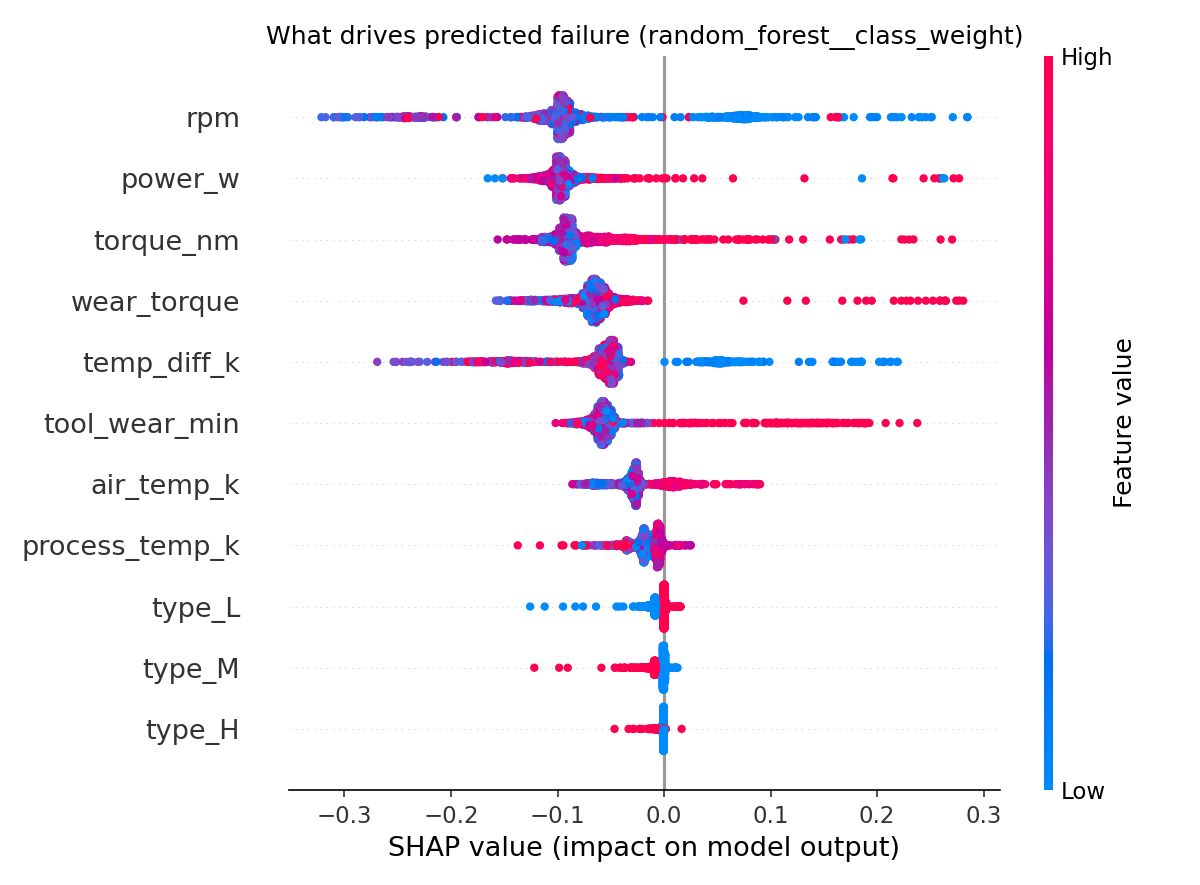
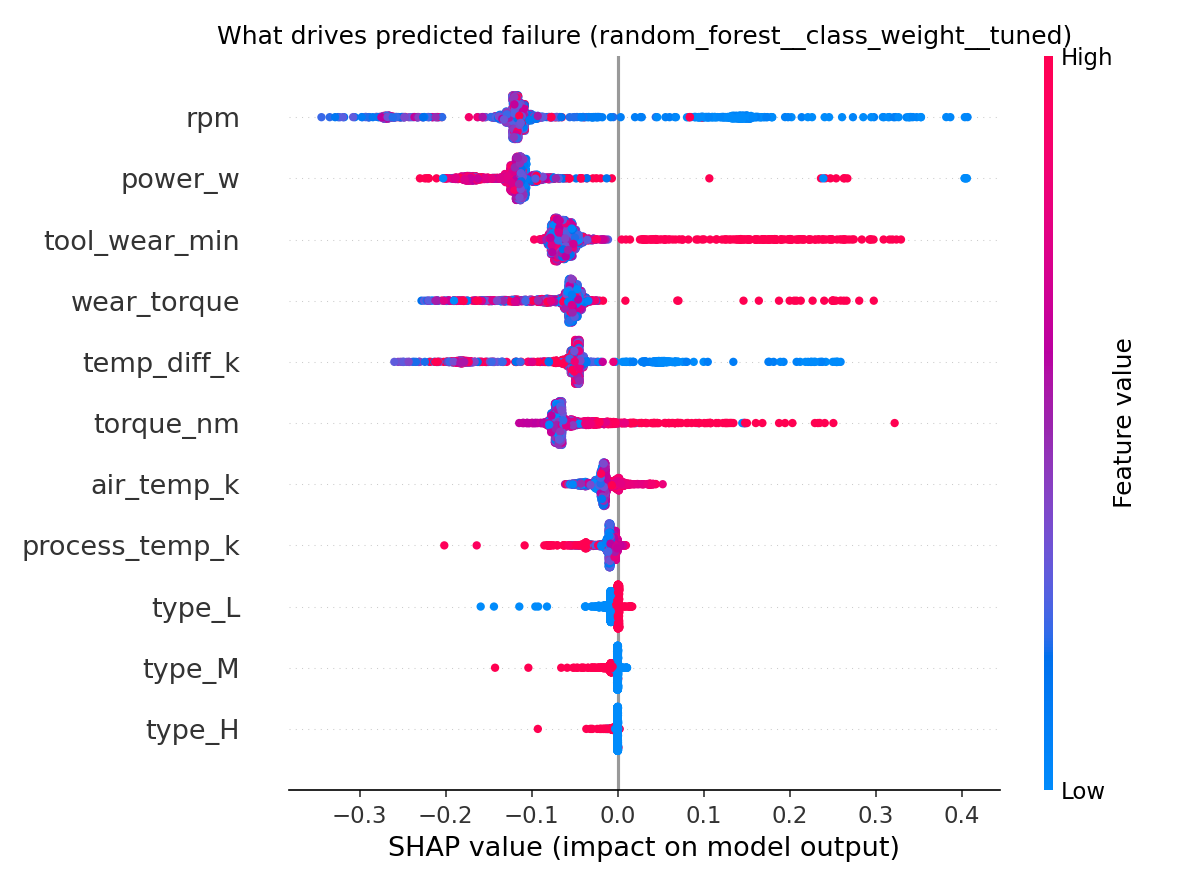
Explain each prediction, tune RF/XGBoost, slim the API image
- /predict returns the top SHAP drivers; explainer built once at startup
- Randomized search (PR-AUC) for Random Forest and XGBoost; tuned RF is
  now the registered model (CV PR-AUC 0.890 -> 0.900, test cost 116 -> 111)
- API image uses xgboost-cpu and no matplotlib (packages 1.3 GB -> 618 MB)
- README: CI badge, updated results, API example with drivers

diff --git a/src/train.py b/src/train.py
@@ -1,7 +1,8 @@
 """Train and compare models, log every run to MLflow, register the best one.
 
 Candidates: {Logistic Regression, Random Forest, XGBoost} x {class weights, SMOTE}.
-Selection and threshold tuning use 5-fold out-of-fold predictions on the
+Random Forest and XGBoost (class weights) also get a randomized hyperparameter
+search. Selection and threshold tuning use 5-fold out-of-fold predictions on the
 training set only; the test set is touched once, for the final report.
 """
 import json
@@ -15,7 +16,12 @@ from imblearn.over_sampling import SMOTE
 from imblearn.pipeline import Pipeline
 from sklearn.ensemble import RandomForestClassifier
 from sklearn.linear_model import LogisticRegression
-from sklearn.model_selection import StratifiedKFold, cross_val_predict, train_test_split
+from sklearn.model_selection import (
+    RandomizedSearchCV,
+    StratifiedKFold,
+    cross_val_predict,
+    train_test_split,
+)
 from sklearn.preprocessing import StandardScaler
 from xgboost import XGBClassifier
 
@@ -81,6 +87,43 @@ def make_model(name: str, strategy: str, pos_weight: float):
     return Pipeline(steps)
 
 
+SEARCH_SPACES = {
+    "random_forest": {
+        "clf__n_estimators": [200, 400, 600],
+        "clf__max_depth": [None, 8, 12, 20],
+        "clf__min_samples_leaf": [1, 2, 4, 8],
+        "clf__max_features": ["sqrt", 0.5, 0.8],
+    },
+    "xgboost": {
+        "clf__n_estimators": [200, 400, 800],
+        "clf__max_depth": [3, 4, 5, 6, 8],
+        "clf__learning_rate": [0.02, 0.05, 0.1],
+        "clf__subsample": [0.7, 0.85, 1.0],
+        "clf__colsample_bytree": [0.6, 0.8, 1.0],
+        "clf__min_child_weight": [1, 3, 5],
+    },
+}
+SEARCH_ITER = 20
+
+
+def tune(name: str, X, y, pos_weight: float) -> dict:
+    """Randomized search on PR-AUC. Uses its own fold split (different seed) so
+    the search and the out-of-fold evaluation don't share folds; nested CV would
+    remove the remaining optimism and is noted as a limitation."""
+    search = RandomizedSearchCV(
+        make_model(name, "class_weight", pos_weight),
+        SEARCH_SPACES[name],
+        n_iter=SEARCH_ITER,
+        scoring="average_precision",
+        cv=StratifiedKFold(n_splits=5, shuffle=True, random_state=RANDOM_STATE + 1),
+        random_state=RANDOM_STATE,
+        n_jobs=1,  # the estimators already parallelise
+    )
+    search.fit(X, y)
+    print(f"  best search PR-AUC {search.best_score_:.3f}: {search.best_params_}")
+    return search.best_params_
+
+
 def main() -> None:
     df = validate(load_raw())
     train_df, test_df = split(df)
@@ -96,40 +139,45 @@ def main() -> None:
     mlflow.set_tracking_uri(f"sqlite:///{ROOT / 'mlflow.db'}")
     mlflow.set_experiment(MLFLOW_EXPERIMENT)
 
+    candidates = [(f"{n}__{st}", n, st, {})
+                  for n in ["logreg", "random_forest", "xgboost"]
+                  for st in ["class_weight", "smote"]]
+    for name in SEARCH_SPACES:
+        print(f"Tuning {name}")
+        candidates.append((f"{name}__class_weight__tuned", name, "class_weight",
+                           tune(name, X_train, y_train, pos_weight)))
+
     rows, fitted = [], {}
-    for name in ["logreg", "random_forest", "xgboost"]:
-        for strategy in ["class_weight", "smote"]:
-            run_name = f"{name}__{strategy}"
-            print(f"Training {run_name}")
-            with mlflow.start_run(run_name=run_name) as run:
-                model = make_model(name, strategy, pos_weight)
-                oof = cross_val_predict(
-                    model, X_train, y_train, cv=cv, method="predict_proba"
-                )[:, 1]
-                threshold = best_threshold(y_train, oof)
-                cv_metrics = classification_metrics(y_train, oof, threshold)
+    for run_name, name, strategy, params in candidates:
+        print(f"Training {run_name}")
+        with mlflow.start_run(run_name=run_name) as run:
+            model = make_model(name, strategy, pos_weight).set_params(**params)
+            oof = cross_val_predict(
+                model, X_train, y_train, cv=cv, method="predict_proba"
+            )[:, 1]
+            threshold = best_threshold(y_train, oof)
+            cv_metrics = classification_metrics(y_train, oof, threshold)
 
-                model.fit(X_train, y_train)
-                test_proba = model.predict_proba(X_test)[:, 1]
-                test_metrics = classification_metrics(y_test, test_proba, threshold)
+            model.fit(X_train, y_train)
+            test_proba = model.predict_proba(X_test)[:, 1]
+            test_metrics = classification_metrics(y_test, test_proba, threshold)
 
-                mlflow.log_params(
-                    {"model": name, "imbalance": strategy, "threshold": threshold}
-                )
-                mlflow.log_params(
-                    {f"clf__{k}": v for k, v in model.named_steps["clf"].get_params().items()
-                     if isinstance(v, (int, float, str, bool)) or v is None}
-                )
-                mlflow.log_metrics({f"cv_{k}": v for k, v in cv_metrics.items()})
-                mlflow.log_metrics({f"test_{k}": v for k, v in test_metrics.items()})
-                info = mlflow.sklearn.log_model(model, name="model",
-                                                input_example=X_train.head(3),
-                                                serialization_format="cloudpickle")
+            mlflow.log_params({"model": name, "imbalance": strategy,
+                               "tuned": bool(params), "threshold": threshold})
+            mlflow.log_params(
+                {f"clf__{k}": v for k, v in model.named_steps["clf"].get_params().items()
+                 if isinstance(v, (int, float, str, bool)) or v is None}
+            )
+            mlflow.log_metrics({f"cv_{k}": v for k, v in cv_metrics.items()})
+            mlflow.log_metrics({f"test_{k}": v for k, v in test_metrics.items()})
+            info = mlflow.sklearn.log_model(model, name="model",
+                                            input_example=X_train.head(3),
+                                            serialization_format="cloudpickle")
 
-                fitted[run_name] = (model, threshold, run.info.run_id, info.model_uri)
-                rows.append({"run": run_name, "threshold": threshold,
-                             **{f"cv_{k}": cv_metrics[k] for k in ["pr_auc", "recall", "precision", "f1", "cost"]},
-                             **{f"test_{k}": test_metrics[k] for k in ["pr_auc", "recall", "precision", "f1", "cost"]}})
+            fitted[run_name] = (model, threshold, run.info.run_id, info.model_uri)
+            rows.append({"run": run_name, "threshold": threshold,
+                         **{f"cv_{k}": cv_metrics[k] for k in ["pr_auc", "recall", "precision", "f1", "cost"]},
+                         **{f"test_{k}": test_metrics[k] for k in ["pr_auc", "recall", "precision", "f1", "cost"]}})
 
     results = pd.DataFrame(rows).sort_values("cv_pr_auc", ascending=False)
     REPORTS_DIR.mkdir(exist_ok=True)

diff --git a/src/explain.py b/src/explain.py
@@ -6,10 +6,6 @@ matrix but plots and reasons show the original sensor values.
 import json
 
 import joblib
-import matplotlib
-
-matplotlib.use("Agg")
-import matplotlib.pyplot as plt
 import numpy as np
 import pandas as pd
 import shap
@@ -18,15 +14,20 @@ from src.config import MODELS_DIR, PROCESSED_DIR, REPORTS_DIR
 from src.features import build_xy
 
 
-def shap_explanation(model, X: pd.DataFrame) -> shap.Explanation:
-    """SHAP values (log-odds / probability contribution toward 'failure') for X."""
+def make_explainer(model):
+    """Build the SHAP explainer once; reuse it for every prediction."""
     clf = model.named_steps["clf"]
-    X_scaled = model.named_steps["scaler"].transform(X)
     if hasattr(clf, "feature_importances_"):
-        explainer = shap.TreeExplainer(clf)
-    else:
-        explainer = shap.LinearExplainer(clf, X_scaled)
-    exp = explainer(X_scaled)
+        return shap.TreeExplainer(clf)
+    # Features are standardised, so an all-zeros row is the training mean.
+    n_features = model.named_steps["scaler"].n_features_in_
+    return shap.LinearExplainer(clf, shap.maskers.Independent(np.zeros((1, n_features))))
+
+
+def shap_explanation(model, X: pd.DataFrame, explainer=None) -> shap.Explanation:
+    """SHAP contributions toward 'failure' for X, reported on the original sensor scale."""
+    explainer = explainer or make_explainer(model)
+    exp = explainer(model.named_steps["scaler"].transform(X))
     values, base = exp.values, exp.base_values
     if values.ndim == 3:  # (rows, features, classes) -> failure class
         values, base = values[:, :, 1], base[:, 1]
@@ -34,16 +35,29 @@ def shap_explanation(model, X: pd.DataFrame) -> shap.Explanation:
                             data=X.values, feature_names=list(X.columns))
 
 
-def top_reasons(exp_row: shap.Explanation, k: int = 3) -> list[str]:
-    """Human-readable drivers that pushed this row toward failure."""
+def top_contributions(exp_row: shap.Explanation, k: int = 3) -> list[dict]:
+    """The k features that pushed this row hardest toward failure."""
     order = np.argsort(-exp_row.values)[:k]
     return [
-        f"{exp_row.feature_names[i]} = {exp_row.data[i]:.1f} (+{exp_row.values[i]:.3f})"
+        {"feature": exp_row.feature_names[i],
+         "value": round(float(exp_row.data[i]), 2),
+         "contribution": round(float(exp_row.values[i]), 4)}
         for i in order if exp_row.values[i] > 0
     ]
 
 
+def top_reasons(exp_row: shap.Explanation, k: int = 3) -> list[str]:
+    """Human-readable version of top_contributions."""
+    return [f"{c['feature']} = {c['value']:g} (+{c['contribution']:.3f})"
+            for c in top_contributions(exp_row, k)]
+
+
 def main() -> None:
+    import matplotlib
+
+    matplotlib.use("Agg")
+    import matplotlib.pyplot as plt
+
     model = joblib.load(MODELS_DIR / "model.joblib")
     meta = json.loads((MODELS_DIR / "metadata.json").read_text())
     X_test, y_test = build_xy(pd.read_csv(PROCESSED_DIR / "test.csv"))

diff --git a/app/main.py b/app/main.py
@@ -10,6 +10,7 @@ import pandas as pd
 from fastapi import FastAPI, HTTPException
 from pydantic import BaseModel, ConfigDict, Field, model_validator
 
+from src.explain import make_explainer, shap_explanation, top_contributions
 from src.features import build_x
 
 DEFAULT_MODELS_DIR = Path(__file__).resolve().parents[1] / "models"
@@ -24,6 +25,7 @@ async def lifespan(app: FastAPI):
     if model_path.exists():
         state["model"] = joblib.load(model_path)
         state["meta"] = json.loads((models_dir / "metadata.json").read_text())
+        state["explainer"] = make_explainer(state["model"])
     yield
     state.clear()
 
@@ -62,10 +64,17 @@ class SensorReading(BaseModel):
         return self
 
 
+class Driver(BaseModel):
+    feature: str
+    value: float
+    contribution: float  # SHAP value toward "failure"
+
+
 class Prediction(BaseModel):
     failure_probability: float
     threshold: float
     failure_predicted: bool
+    top_drivers: list[Driver]
     model_version: str
 
 
@@ -81,9 +90,11 @@ def predict(reading: SensorReading):
     meta = state["meta"]
     X = build_x(pd.DataFrame([reading.model_dump()]))
     proba = float(state["model"].predict_proba(X)[0, 1])
+    exp = shap_explanation(state["model"], X, state["explainer"])
     return Prediction(
         failure_probability=round(proba, 4),
         threshold=meta["threshold"],
         failure_predicted=proba >= meta["threshold"],
+        top_drivers=top_contributions(exp[0]),
         model_version=f"{meta['registered_model']}/v{meta['registered_version']} ({meta['model']})",
     )

diff --git a/tests/conftest.py b/tests/conftest.py
@@ -5,7 +5,7 @@ import numpy as np
 import pandas as pd
 import pytest
 from sklearn.linear_model import LogisticRegression
-from sklearn.pipeline import make_pipeline
+from sklearn.pipeline import Pipeline
 from sklearn.preprocessing import StandardScaler
 
 from src.features import FEATURE_COLS, build_xy
@@ -40,7 +40,8 @@ def raw_df() -> pd.DataFrame:
 def models_dir(tmp_path, monkeypatch):
     """A small fitted model + metadata, wired into the API via MODELS_DIR."""
     X, y = build_xy(make_raw(500))
-    model = make_pipeline(StandardScaler(), LogisticRegression(max_iter=1000)).fit(X, y)
+    model = Pipeline([("scaler", StandardScaler()),
+                      ("clf", LogisticRegression(max_iter=1000))]).fit(X, y)
     joblib.dump(model, tmp_path / "model.joblib")
     (tmp_path / "metadata.json").write_text(json.dumps({
         "model": "test", "threshold": 0.5, "features": FEATURE_COLS,

diff --git a/tests/test_api.py b/tests/test_api.py
@@ -23,6 +23,17 @@ def test_predict_returns_valid_response(client):
     body = r.json()
     assert 0.0 <= body["failure_probability"] <= 1.0
     assert body["failure_predicted"] == (body["failure_probability"] >= body["threshold"])
+    assert len(body["top_drivers"]) <= 3
+    assert all(d["contribution"] > 0 for d in body["top_drivers"])
+
+
+def test_drivers_explain_a_risky_machine(client):
+    # The fixture model learns failure = wear x torque > 9000.
+    risky = {**VALID, "torque_nm": 70, "tool_wear_min": 240}
+    body = client.post("/predict", json=risky).json()
+    assert body["failure_predicted"]
+    names = [d["feature"] for d in body["top_drivers"]]
+    assert {"wear_torque", "torque_nm", "tool_wear_min"} & set(names)
 
 
 @pytest.mark.parametrize("bad", [

diff --git a/README.md b/README.md
@@ -1,15 +1,17 @@
 # Predictive Maintenance with an MLOps Pipeline
 
+[![CI](https://github.com/sarthak-bendre/predictive-maintenance/actions/workflows/ci.yml/badge.svg)](https://github.com/sarthak-bendre/predictive-maintenance/actions/workflows/ci.yml)
+
 A model reads a milling machine's sensor values (temperature, speed, torque, tool wear) and predicts whether it is about to fail. An automated pipeline around it validates the data, trains and compares models, tracks experiments, registers the best model, serves it through an API, and watches for data drift.
 
 ```mermaid
 flowchart LR
     A[UCI raw CSV] --> B[validate.py<br/>schema & ranges]
     B --> C[features.py<br/>drop leakage, physics features]
-    C --> D[train.py<br/>3 models × 2 imbalance strategies<br/>5-fold CV, cost threshold]
+    C --> D[train.py<br/>3 models × 2 imbalance strategies<br/>+ tuned RF / XGBoost<br/>5-fold CV, cost threshold]
     D --> E[(MLflow<br/>runs + model registry)]
     D --> F[models/model.joblib<br/>+ threshold]
-    F --> G[FastAPI /predict<br/>in Docker]
+    F --> G[FastAPI /predict<br/>probability + SHAP drivers<br/>in Docker]
     G -. new data .-> H[drift.py<br/>Evidently report]
     H -. drift > 30% .-> D
     CI[GitHub Actions<br/>test → train → build → smoke test] -.-> D & G
@@ -21,19 +23,22 @@ Held-out test set: 2,000 machines, 68 of them real failures. Each model uses its
 
 | Model | Imbalance handling | CV PR-AUC | Test PR-AUC | Test recall | Test precision | Test F1 | Cost* |
 |---|---|---|---|---|---|---|---|
-| **Random Forest** ✅ | class weights | **0.890** | 0.879 | **0.838** | **0.905** | **0.870** | **116** |
+| **Random Forest, tuned** ✅ | class weights | **0.900** | 0.895 | 0.853 | 0.841 | 0.847 | **111** |
+| Random Forest | class weights | 0.890 | 0.879 | 0.838 | **0.905** | **0.870** | 116 |
 | XGBoost | SMOTE | 0.877 | 0.875 | 0.824 | 0.727 | 0.772 | 141 |
+| XGBoost, tuned | class weights | 0.877 | 0.883 | 0.853 | 0.725 | 0.784 | 122 |
 | XGBoost | class weights | 0.877 | 0.889 | 0.838 | 0.760 | 0.797 | 128 |
-| Random Forest | SMOTE | 0.861 | 0.858 | 0.868 | 0.541 | 0.667 | 140 |
+| Random Forest | SMOTE | 0.861 | 0.858 | **0.868** | 0.541 | 0.667 | 140 |
 | Logistic Regression | class weights | 0.455 | 0.430 | 0.603 | 0.369 | 0.458 | 340 |
 | Logistic Regression | SMOTE | 0.438 | 0.431 | 0.794 | 0.277 | 0.411 | 281 |
 
 \*Cost = 10 × missed failures + 1 × false alarms. Always predicting "no failure" scores **96.6% accuracy** and costs **680**.
 
-On the test set, the selected model catches **57 of 68 failures** and raises **6 false alarms**.
+On the test set, the selected model catches **58 of 68 failures** and raises **11 false alarms**.
 
-- **Selection is done on CV PR-AUC, not on the test set.** XGBoost with class weights has a slightly higher *test* PR-AUC, but choosing a model by its test score would leak the test set into model selection.
+- **Selection is done on CV PR-AUC, not on the test set.** The test set is used once, for the numbers above. Choosing a model by its test score would leak the test set into model selection, and the rankings do differ: untuned Random Forest has the best test F1 but the worse CV score.
 - **Logistic regression cannot capture the failure rules.** They are threshold-shaped (power too low *or* too high), which is not linear in the features.
+- **Tuning helps a little.** A 20-candidate randomized search (on PR-AUC) improves Random Forest from 0.890 to 0.900 CV PR-AUC and the test cost from 116 to 111. It catches one more failure in exchange for five more false alarms, which the 10:1 cost assumption accepts. Tuning XGBoost didn't improve it.
 - **Class weights beat SMOTE here.** SMOTE invents failures by interpolating between real ones, which blurs the sharp physical boundaries and costs precision.
 
 ## Key decisions
@@ -55,12 +60,12 @@ The ID columns (`UDI`, `Product ID`) are also dropped. See `notebooks/01_eda.ipy
 | `power_w` = torque × rpm × 2π/60 | mechanical power; failures at both extremes | power failure |
 | `wear_torque` = tool wear × torque | strain on a worn tool | overstrain failure |
 
-SHAP confirms the model uses them as physics predicts: rpm, power and torque matter most, and a small temperature gap and high wear × torque push toward failure.
+SHAP confirms the model uses them as physics predicts: rpm and power matter most, followed by tool wear, wear × torque and the temperature gap; a small temperature gap and high wear × torque push toward failure.
 
 ![SHAP summary](reports/shap_beeswarm.png)
 
 ### 3. Decision threshold (from a business assumption, not 0.5)
-Assumption: **a missed failure costs 10× a false alarm** (unplanned downtime vs. a wasted inspection). The threshold that minimises `10·FN + 1·FP` is picked on 5-fold out-of-fold training predictions. For the selected model it is **0.36**. Change `COST_FN`/`COST_FP` in `src/config.py` to encode a different maintenance policy.
+Assumption: **a missed failure costs 10× a false alarm** (unplanned downtime vs. a wasted inspection). The threshold that minimises `10·FN + 1·FP` is picked on 5-fold out-of-fold training predictions. For the selected model it is **0.38**. Change `COST_FN`/`COST_FP` in `src/config.py` to encode a different maintenance policy.
 
 ### 4. Split and resampling done without leakage
 The train/test split is stratified 80/20, so both sets keep the 3.4% failure rate. Scaling and SMOTE sit *inside* an `imblearn` pipeline, so each CV fold fits them on its own training portion only.
@@ -89,9 +94,15 @@ make docker       # build and run the API container
 ```bash
 curl -X POST localhost:8000/predict -H "Content-Type: application/json" \
   -d '{"type":"L","air_temp_k":302.0,"process_temp_k":310.5,"rpm":1300,"torque_nm":65,"tool_wear_min":215}'
-# {"failure_probability":0.96,"threshold":0.36,"failure_predicted":true,
-#  "model_version":"pm-failure-classifier/v1 (random_forest__class_weight)"}
+# {"failure_probability": 0.9718, "threshold": 0.38, "failure_predicted": true,
+#  "top_drivers": [
+#    {"feature": "rpm",         "value": 1300.0,  "contribution": 0.1695},
+#    {"feature": "torque_nm",   "value": 65.0,    "contribution": 0.117},
+#    {"feature": "wear_torque", "value": 13975.0, "contribution": 0.1053}],
+#  "model_version": "pm-failure-classifier/v1 (random_forest__class_weight__tuned)"}
 ```
+
+Each prediction includes `top_drivers`: the SHAP contributions that pushed this machine toward failure. A maintenance planner sees *why* a machine was flagged (here: slow spindle, high torque and a worn tool under load), not just a score. The SHAP explainer is built once at startup, and a prediction with explanation takes about 30 ms.
 
 The API rejects physically impossible input with a 422 (negative torque, unknown product type, process colder than ambient, unknown fields). It returns 503 if no model is loaded.
 
@@ -107,7 +118,7 @@ src/
   features.py    leakage removal + physics features (shared with the API)
   train.py       model comparison, MLflow tracking + registry
   evaluate.py    imbalance-aware metrics, cost-based threshold
-  explain.py     SHAP global + per-prediction explanations
+  explain.py     SHAP global plots + per-prediction drivers (used by the API)
   drift.py       Evidently drift reports
 app/main.py      FastAPI service
 notebooks/       exploration and leakage check only
@@ -119,4 +130,4 @@ tests/           pytest suite
 - **Snapshots, not time series.** Each row is an independent snapshot, not a sequence per machine. The model answers "failure or not" and cannot estimate remaining useful life.
 - **Random failures (RNF) are unpredictable by design.** They are independent of the sensors, which puts a ceiling on recall.
 - **The drift test is simulated.** A shifted copy of held-out data stands in for live production data.
-- **Limited tuning.** Hyperparameters are sensible defaults rather than a full search.
+- **Tuning is not nested.** The hyperparameter search and the CV estimate use the same training data (different fold seeds), so the tuned models' CV scores are slightly optimistic. The untouched test set gives the unbiased check.
